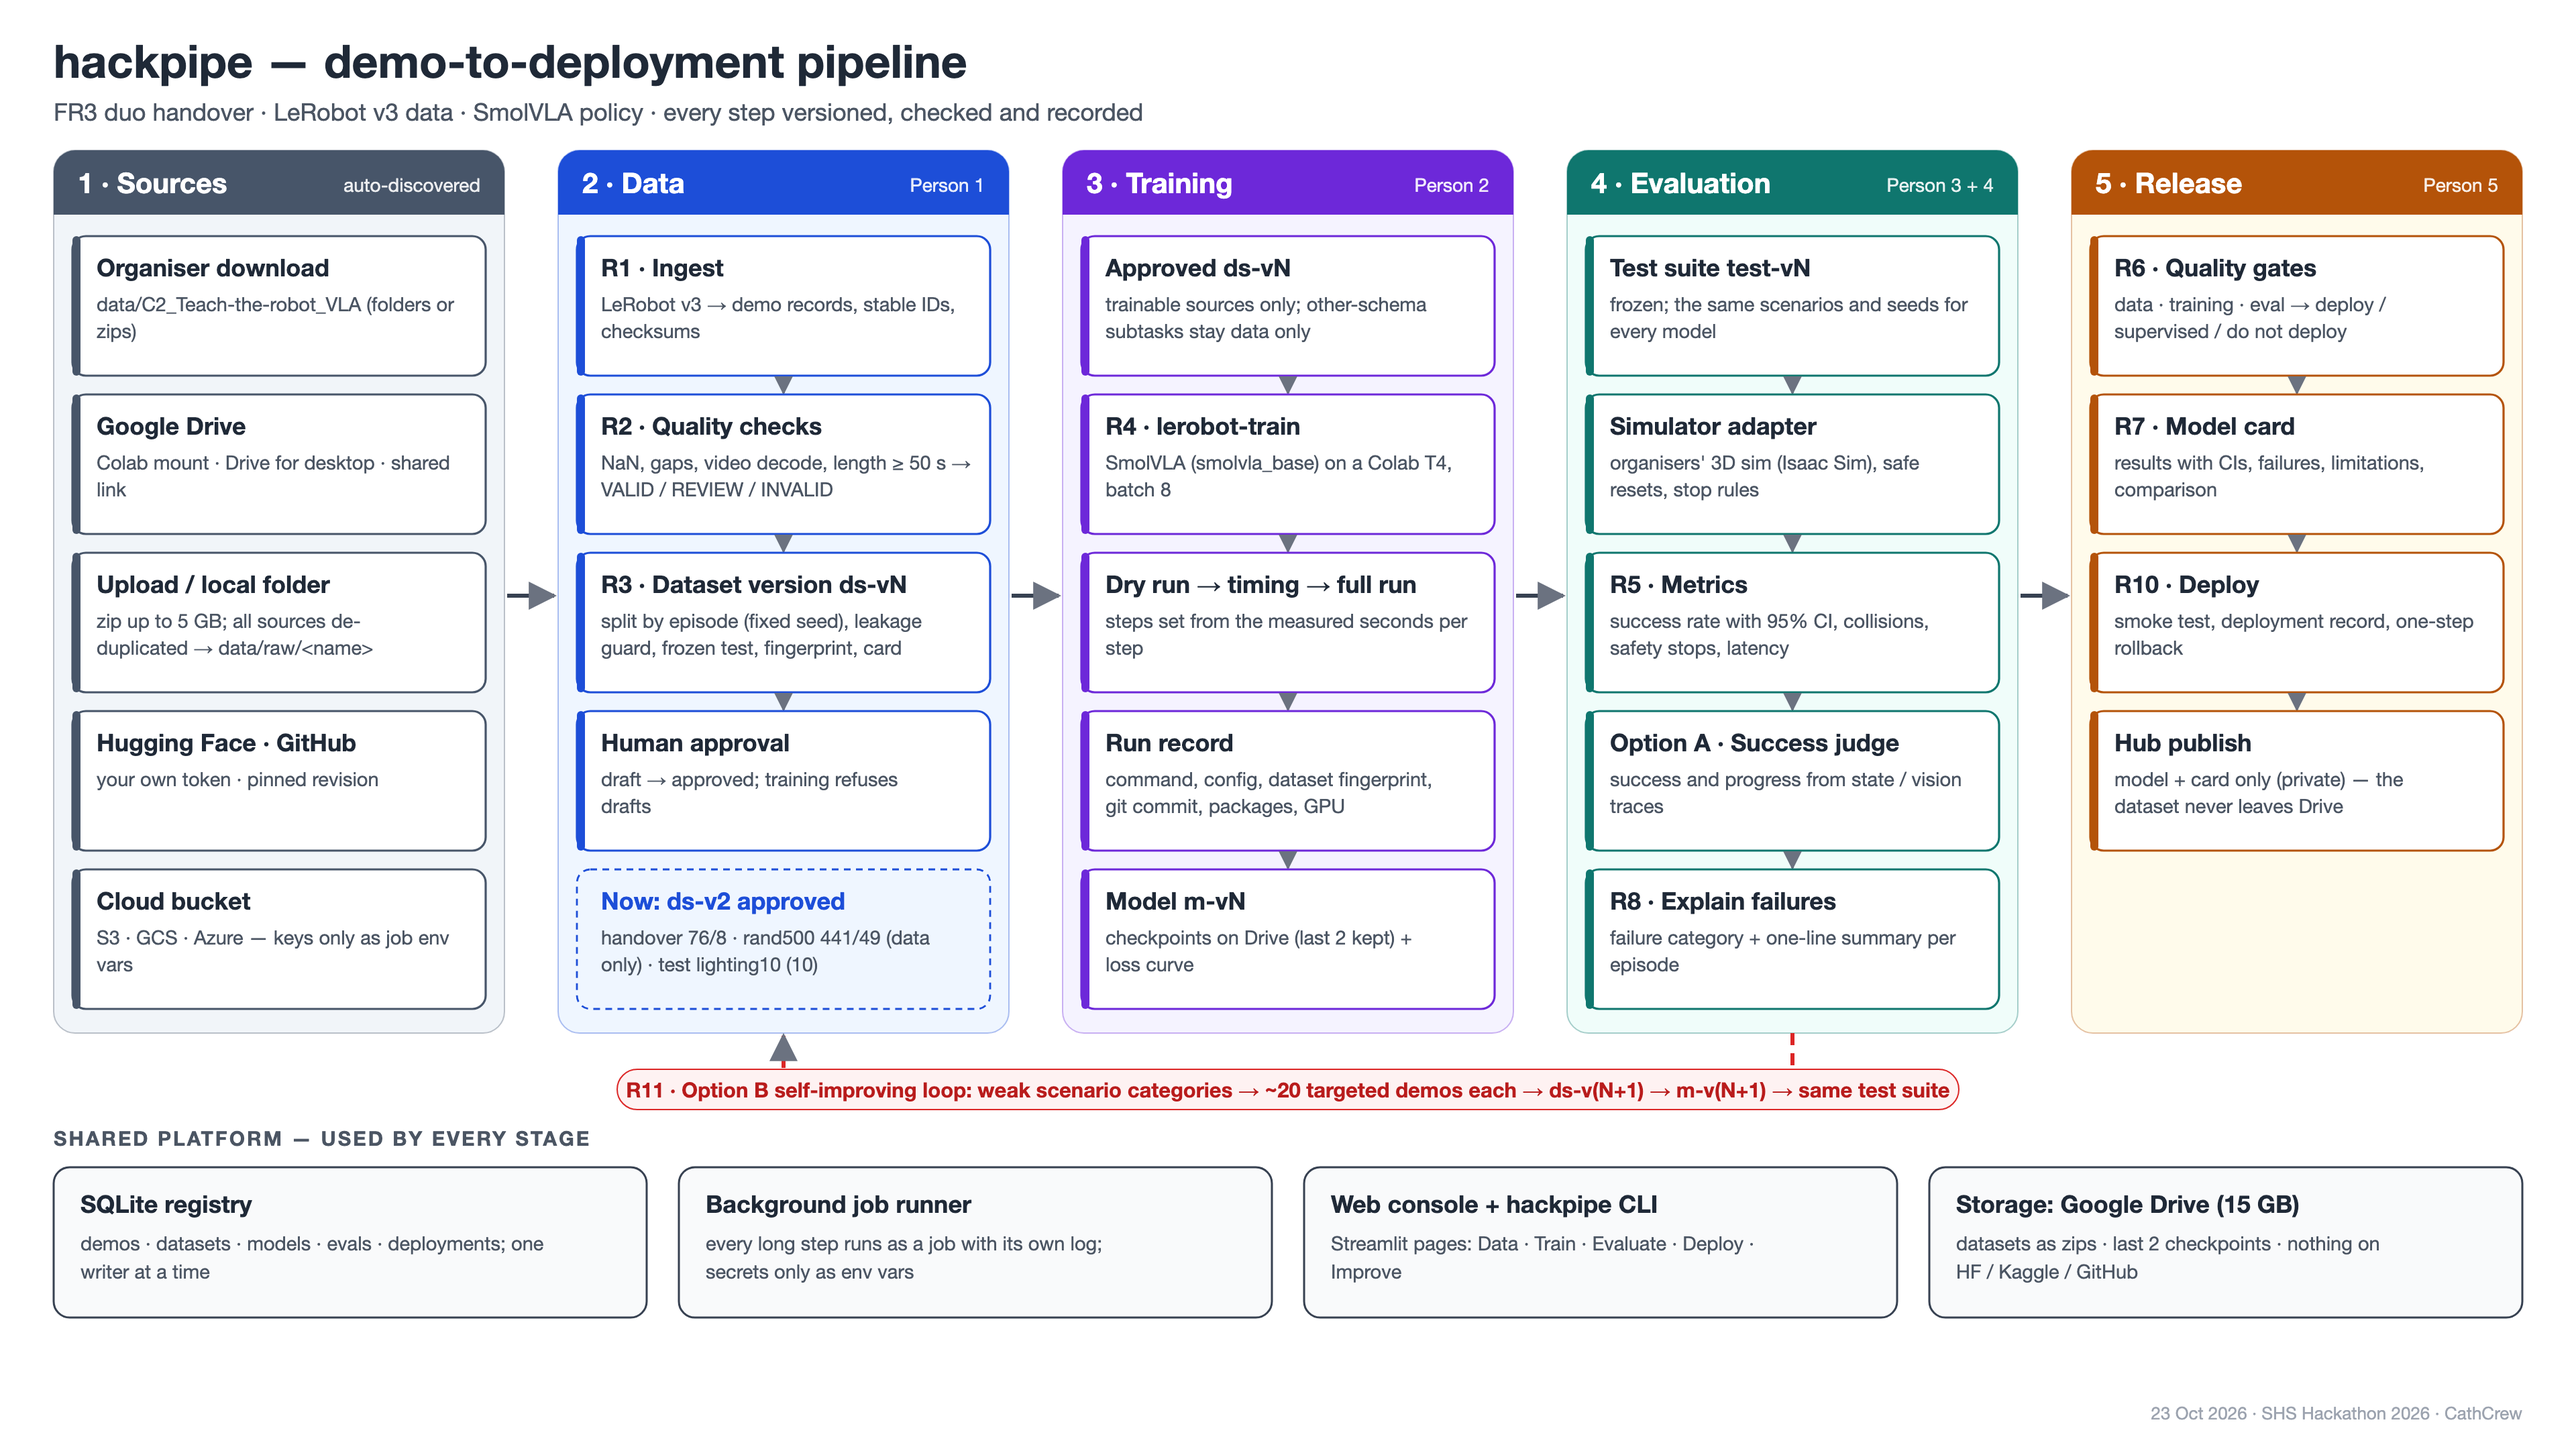
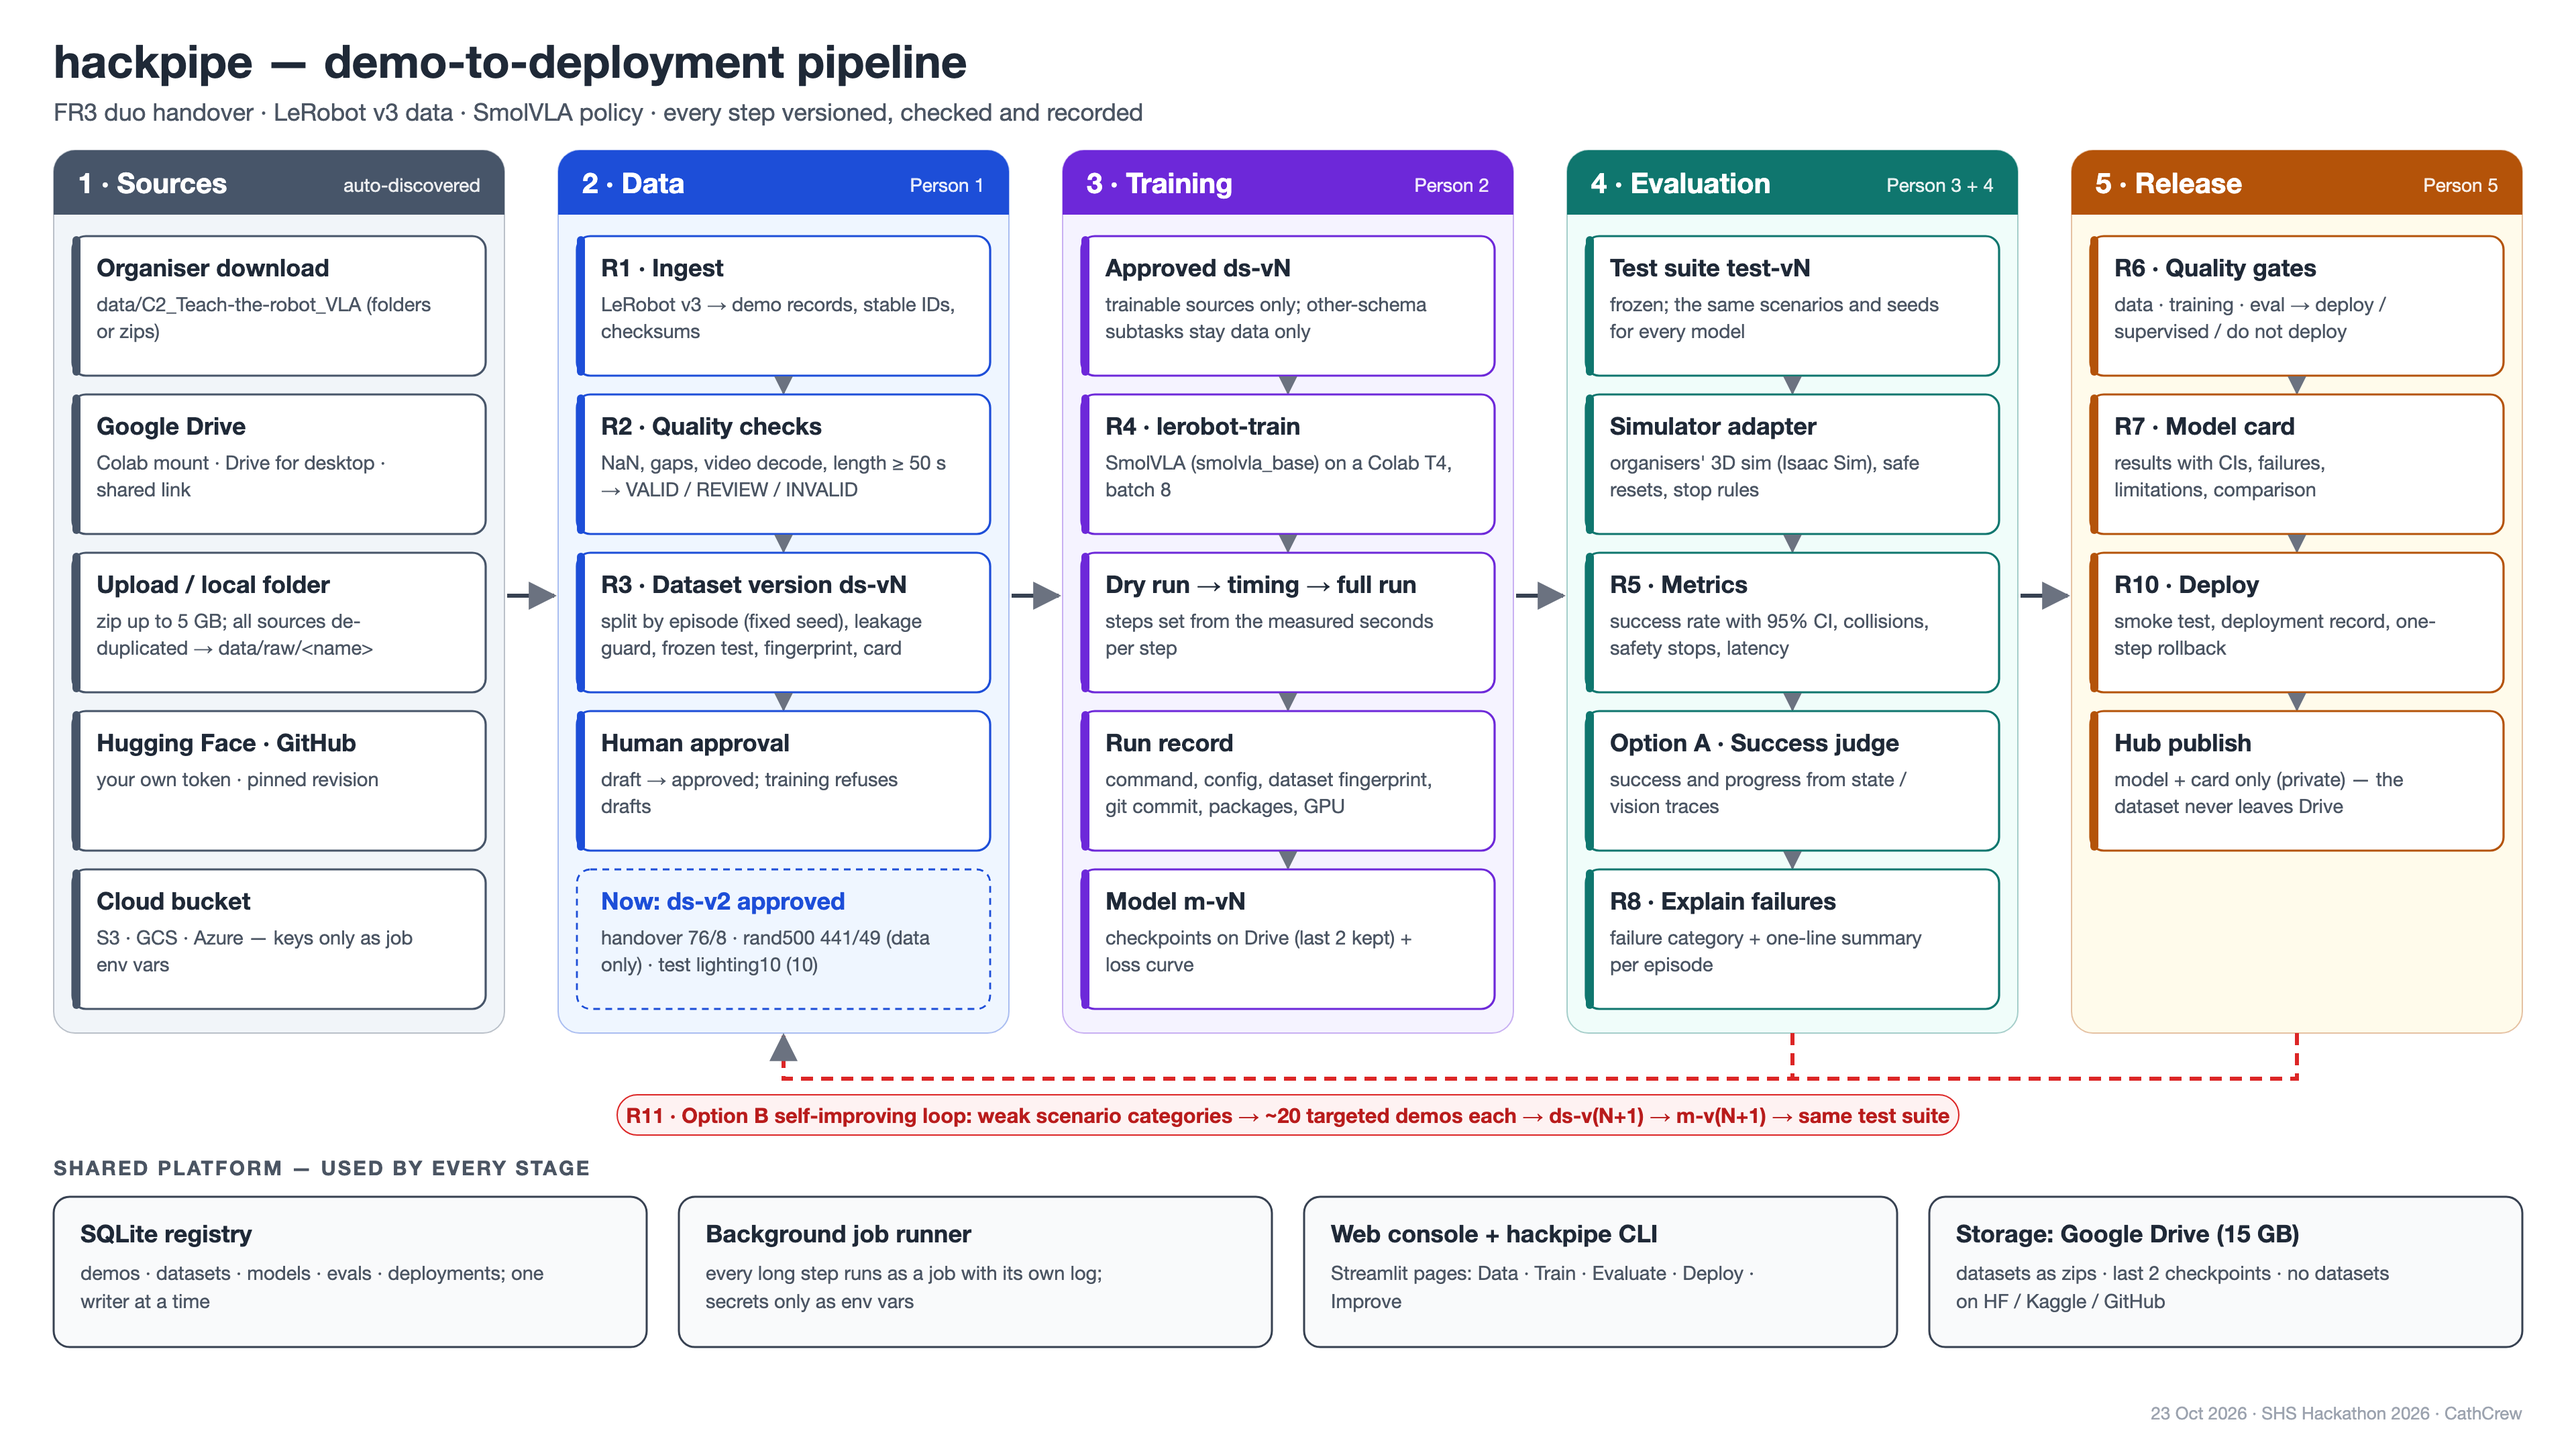
Diagram review fixes: visible R11 loop, Python 3.10 parse, UTF-8 write, overflow check

diff --git a/docs/architecture/make_diagram.py b/docs/architecture/make_diagram.py
@@ -1,4 +1,6 @@
-"""Draws docs/architecture/pipeline_architecture.svg (16:9, for slides). Edit the text below and re-run:
+"""Draws docs/architecture/pipeline_architecture.svg (16:9, for slides). Edit the text below and re-run.
+The "Now:" card and the footer date are a snapshot — update them when a new dataset version is approved.
+
 
     python3 docs/architecture/make_diagram.py
     "/Applications/Google Chrome.app/Contents/MacOS/Google Chrome" --headless=new --hide-scrollbars \\
@@ -56,7 +58,16 @@ out = [f'<svg xmlns="http://www.w3.org/2000/svg" width="{W}" height="{H}" viewBo
 X0, GAP, CW = 40, 40, 336
 TOP, CARD_H, CARD_GAP, CARD_Y0 = 112, 104, 14, 176
 BOTTOM = 770
-def wrap(s, n=40): return textwrap.wrap(s, n)
+
+
+def lines(text, width, max_lines):
+    """Wrapped description lines; stops with an error instead of letting text run out of its box."""
+    out = textwrap.wrap(text, width)
+    if len(out) > max_lines:
+        sys.exit(f"too long for its box ({len(out)} lines > {max_lines}), shorten it: {text!r}")
+    return out
+
+
 for i, (name, owner, c, bg, cards) in enumerate(cols):
     x = X0 + i * (CW + GAP)
     out.append(f'<rect x="{x}" y="{TOP}" width="{CW}" height="{BOTTOM-TOP}" rx="16" fill="{bg}" stroke="{c}" stroke-opacity=".35"/>')
@@ -66,11 +77,12 @@ for i, (name, owner, c, bg, cards) in enumerate(cols):
     for j, (t, d) in enumerate(cards):
         y = CARD_Y0 + j * (CARD_H + CARD_GAP)
         status = t.startswith("Now:")
-        out.append(f'<rect x="{x+14}" y="{y}" width="{CW-28}" height="{CARD_H}" rx="10" fill="{"#fff" if not status else bg}" stroke="{c}" stroke-width="{1.6 if not status else 1.4}" {"stroke-dasharray=\"5 4\"" if status else ""}/>')
+        dash = 'stroke-dasharray="5 4"' if status else ""
+        out.append(f'<rect x="{x+14}" y="{y}" width="{CW-28}" height="{CARD_H}" rx="10" fill="{"#fff" if not status else bg}" stroke="{c}" stroke-width="{1.6 if not status else 1.4}" {dash}/>')
         if not status:
             out.append(f'<rect x="{x+14}" y="{y}" width="6" height="{CARD_H}" rx="3" fill="{c}"/>')
         out.append(f'<text x="{x+32}" y="{y+30}" font-size="18" font-weight="700" fill="{c if status else INK}">{e(t)}</text>')
-        for k, line in enumerate(wrap(d)):
+        for k, line in enumerate(lines(d, 38, 3)):
             out.append(f'<text x="{x+32}" y="{y+56+k*20}" font-size="14.5" fill="{MUTED}">{e(line)}</text>')
         if i in (1, 2, 3, 4) and j < len(cards) - 1 and not cards[j+1][0].startswith("Now:"):
             cx = x + CW / 2
@@ -78,28 +90,29 @@ for i, (name, owner, c, bg, cards) in enumerate(cols):
     if i < len(cols) - 1:
         ay = 444
         out.append(f'<line x1="{x+CW+2}" y1="{ay}" x2="{x+CW+GAP-3}" y2="{ay}" stroke="#374151" stroke-width="3" marker-end="url(#a)"/>')
-# feedback loop: Evaluation/Release -> Data
-ly = 812
+# R11 loop: Evaluation and Release feed back into Data; the label sits under the line, not on it
+ly = 804
 x_rel = X0 + 4 * (CW + GAP) + CW / 2; x_ev = X0 + 3 * (CW + GAP) + CW / 2; x_data = X0 + 1 * (CW + GAP) + CW / 2
-out.append(f'<path d="M{x_ev} {BOTTOM} V{ly} H{x_data} V{BOTTOM+2}" fill="none" stroke="#dc2626" stroke-width="3" stroke-dasharray="9 6" marker-end="url(#a)"/>')
+out.append(f'<path d="M{x_rel} {BOTTOM} V{ly} H{x_data} V{BOTTOM+2}" fill="none" stroke="#dc2626" stroke-width="3" stroke-dasharray="9 6" marker-end="url(#a)"/>')
+out.append(f'<path d="M{x_ev} {BOTTOM} V{ly}" fill="none" stroke="#dc2626" stroke-width="3" stroke-dasharray="9 6"/>')
 lab = "R11 · Option B self-improving loop: weak scenario categories → ~20 targeted demos each → ds-v(N+1) → m-v(N+1) → same test suite"
-out.append(f'<rect x="{(x_data+x_ev)/2-500}" y="{ly-15}" width="1000" height="30" rx="15" fill="#fef2f2" stroke="#dc2626"/>')
-out.append(f'<text x="{(x_data+x_ev)/2}" y="{ly+6}" font-size="15.5" font-weight="600" fill="#b91c1c" text-anchor="middle">{e(lab)}</text>')
-# sources -> data label
+out.append(f'<rect x="{(x_data+x_ev)/2-500}" y="{ly+12}" width="1000" height="30" rx="15" fill="#fef2f2" stroke="#dc2626"/>')
+out.append(f'<text x="{(x_data+x_ev)/2}" y="{ly+33}" font-size="15.5" font-weight="600" fill="#b91c1c" text-anchor="middle">{e(lab)}</text>')
 # platform band
-by = 848
+by = 870
 out.append(f'<text x="40" y="{by+6}" font-size="15" font-weight="700" fill="{MUTED}" letter-spacing="1.5">SHARED PLATFORM — USED BY EVERY STAGE</text>')
 plat = [("SQLite registry", "demos · datasets · models · evals · deployments; one writer at a time"),
         ("Background job runner", "every long step runs as a job with its own log; secrets only as env vars"),
         ("Web console + hackpipe CLI", "Streamlit pages: Data · Train · Evaluate · Deploy · Improve"),
-        ("Storage: Google Drive (15 GB)", "datasets as zips · last 2 checkpoints · nothing on HF / Kaggle / GitHub")]
+        ("Storage: Google Drive (15 GB)", "datasets as zips · last 2 checkpoints · no datasets on HF / Kaggle / GitHub")]
 PW = (W - 80 - 3 * 24) / 4
 for k, (t, d) in enumerate(plat):
     x = 40 + k * (PW + 24)
     out.append(f'<rect x="{x}" y="{by+22}" width="{PW}" height="112" rx="12" fill="#f9fafb" stroke="#374151" stroke-width="1.5"/>')
     out.append(f'<text x="{x+20}" y="{by+56}" font-size="18" font-weight="700" fill="{INK}">{e(t)}</text>')
-    for m, line in enumerate(wrap(d, 52)):
+    for m, line in enumerate(lines(d, 52, 2)):
         out.append(f'<text x="{x+20}" y="{by+84+m*21}" font-size="14.5" fill="{MUTED}">{e(line)}</text>')
 out.append(f'<text x="{W-40}" y="{H-22}" font-size="13" fill="{LINE}" text-anchor="end">23 Oct 2026 · SHS Hackathon 2026 · CathCrew</text>')
 out.append('</svg>')
-open(sys.argv[1] if len(sys.argv) > 1 else Path(__file__).with_name("pipeline_architecture.svg"), "w").write("\n".join(out))
+Path(sys.argv[1] if len(sys.argv) > 1 else Path(__file__).with_name("pipeline_architecture.svg")).write_text(
+    "\n".join(out), encoding="utf-8")

diff --git a/README.md b/README.md
@@ -88,7 +88,7 @@ updates that file.
 
 ## Docs
 
-- [`docs/architecture/`](docs/architecture/pipeline_architecture.png) — pipeline architecture diagram (PNG/SVG for slides)
+- [`docs/architecture/pipeline_architecture.png`](docs/architecture/pipeline_architecture.png) — pipeline architecture diagram for slides (SVG and `make_diagram.py` in the same folder)
 - [`docs/plan.md`](docs/plan.md) — goal, scope, model strategy, day plan, GPU schedule
 - [`docs/roles.md`](docs/roles.md) — who owns what
 - [`docs/interfaces.md`](docs/interfaces.md) — data contracts
